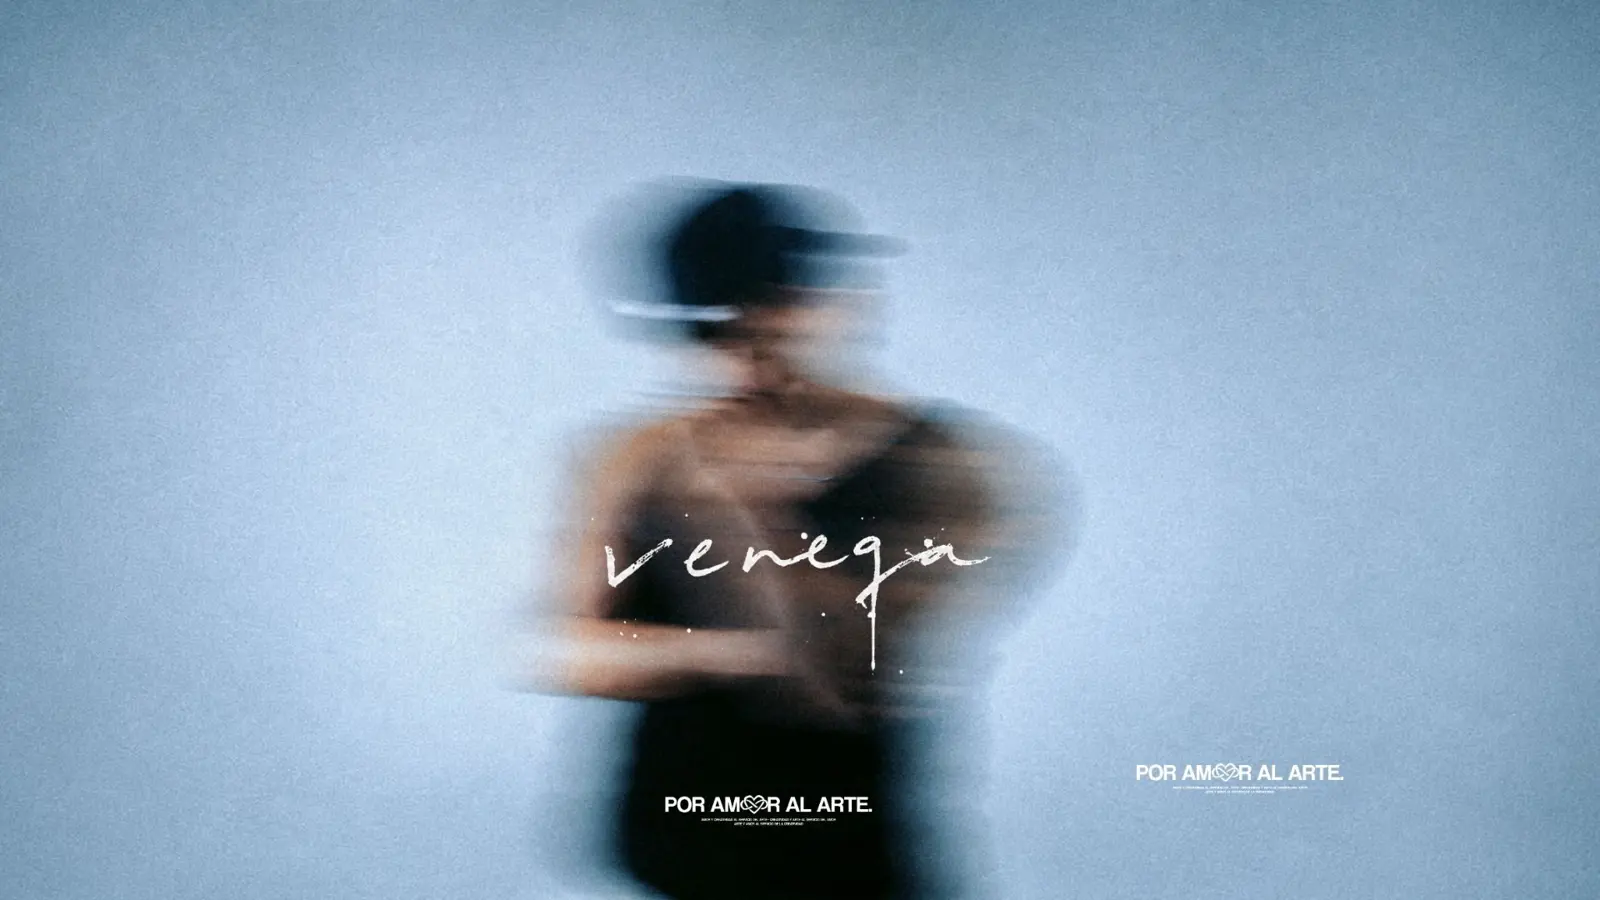
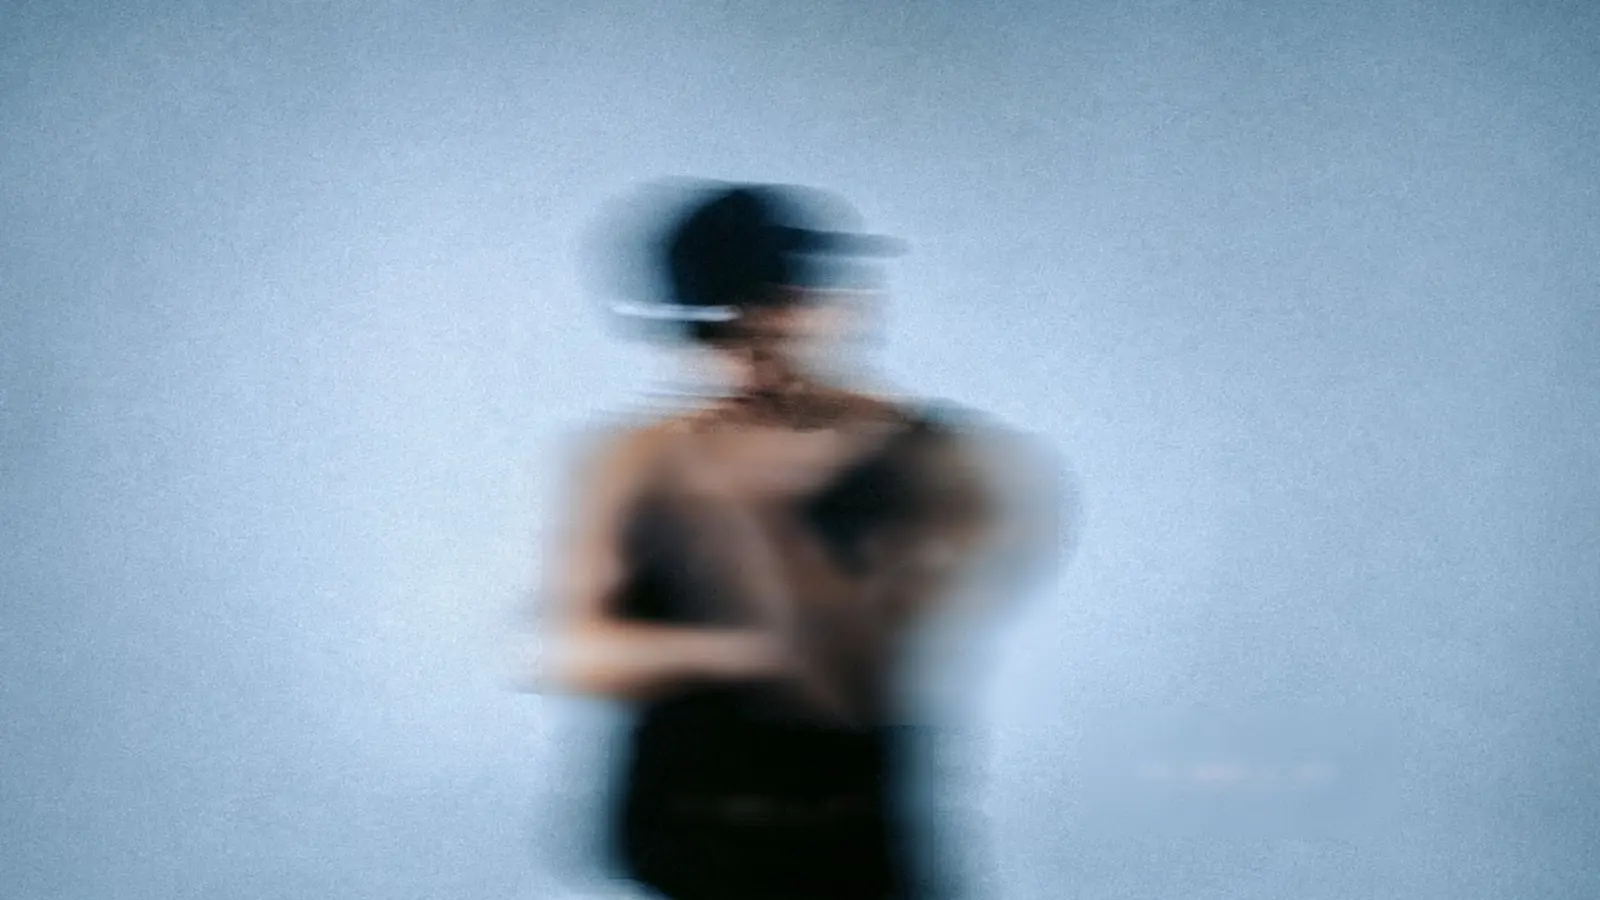
love: corazón y bienvenida en una línea, Por Amor al Arte pequeño abajo, foto sin firma

diff --git a/love.html b/love.html
@@ -22,10 +22,11 @@
     .veil{position:fixed;inset:0;background:radial-gradient(70% 60% at 50% 42%,rgba(11,21,48,.15),rgba(4,6,11,.88) 78%),linear-gradient(180deg,rgba(4,6,11,.1),rgba(4,6,11,.92))}
     main{position:relative;z-index:1;min-height:100%;display:grid;place-items:center;padding:24px 16px}
     .in{width:min(440px,100%);display:flex;flex-direction:column;align-items:center;gap:18px;text-align:center}
-    .sym{width:64px;height:auto;opacity:.95}
-    h1{margin:0;font-weight:500;font-size:clamp(40px,9vw,64px);line-height:1;letter-spacing:-.04em}
-    h1 span{display:block;font-weight:400;letter-spacing:-.02em;font-size:.5em;color:var(--mist);margin-bottom:6px}
-    .wm{width:min(300px,78vw);height:auto}
+    .wel{display:flex;align-items:center;justify-content:center;gap:14px;flex-wrap:nowrap}
+    .sym{width:clamp(44px,8vw,64px);height:auto;flex:none;opacity:.95}
+    h1{margin:0;font-weight:500;font-size:clamp(26px,5.6vw,52px);line-height:1;letter-spacing:-.04em;white-space:nowrap}
+    h1 span{font-weight:400;color:var(--mist)}
+    .wm{position:fixed;z-index:1;left:50%;bottom:calc(26px + env(safe-area-inset-bottom,0px));transform:translateX(-50%);width:150px;height:auto;opacity:.7}
     form,.ok{width:100%;display:flex;flex-direction:column;gap:10px;margin-top:8px}
     label{font-family:"Geist Mono",monospace;font-size:10.5px;letter-spacing:.18em;text-transform:uppercase;color:var(--muted)}
     input{width:100%;text-align:center;border:1px solid var(--line);background:rgba(10,9,8,.6);backdrop-filter:blur(10px);color:var(--ink);border-radius:14px;padding:14px 18px;font:inherit;font-family:"Geist Mono",monospace;font-size:16px;letter-spacing:.3em;text-transform:uppercase}
@@ -42,9 +43,7 @@
   <div class="veil"></div>
   <main>
     <div class="in" id="card">
-      <img class="sym" src="assets/img/love/paa-symbol.webp" alt="" width="64" height="45">
-      <h1><span>Bienvenido</span>CAMILO</h1>
-      <img class="wm" src="assets/img/love/paa-wordmark.webp" alt="Por Amor al Arte" width="300" height="50">
+      <div class="wel"><img class="sym" src="assets/img/love/paa-symbol.webp" alt="" width="64" height="45"><h1><span>Bienvenido</span> CAMILO</h1></div>
       <form id="gate" autocomplete="off">
         <label for="code">Código de acceso</label>
         <input id="code" type="password" autocapitalize="characters" spellcheck="false" placeholder="••••••••" required>
@@ -57,6 +56,7 @@
       </div>
     </div>
   </main>
+  <img class="wm" src="assets/img/love/paa-wordmark.webp" alt="Por Amor al Arte" width="150" height="25">
   <script>
     // Puerta ligera: compara el SHA-256 del código. El tablero en sí se protege
     // con los permisos de compartir de Claude.
